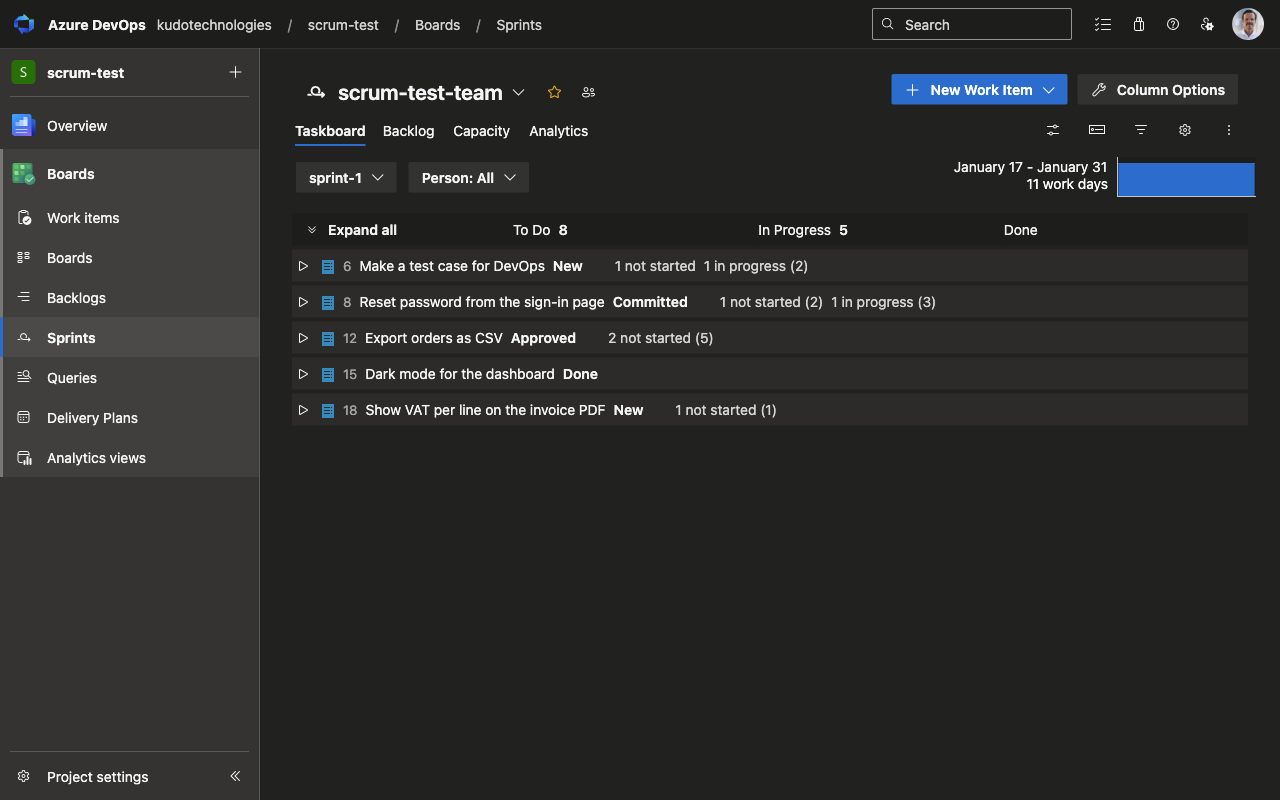
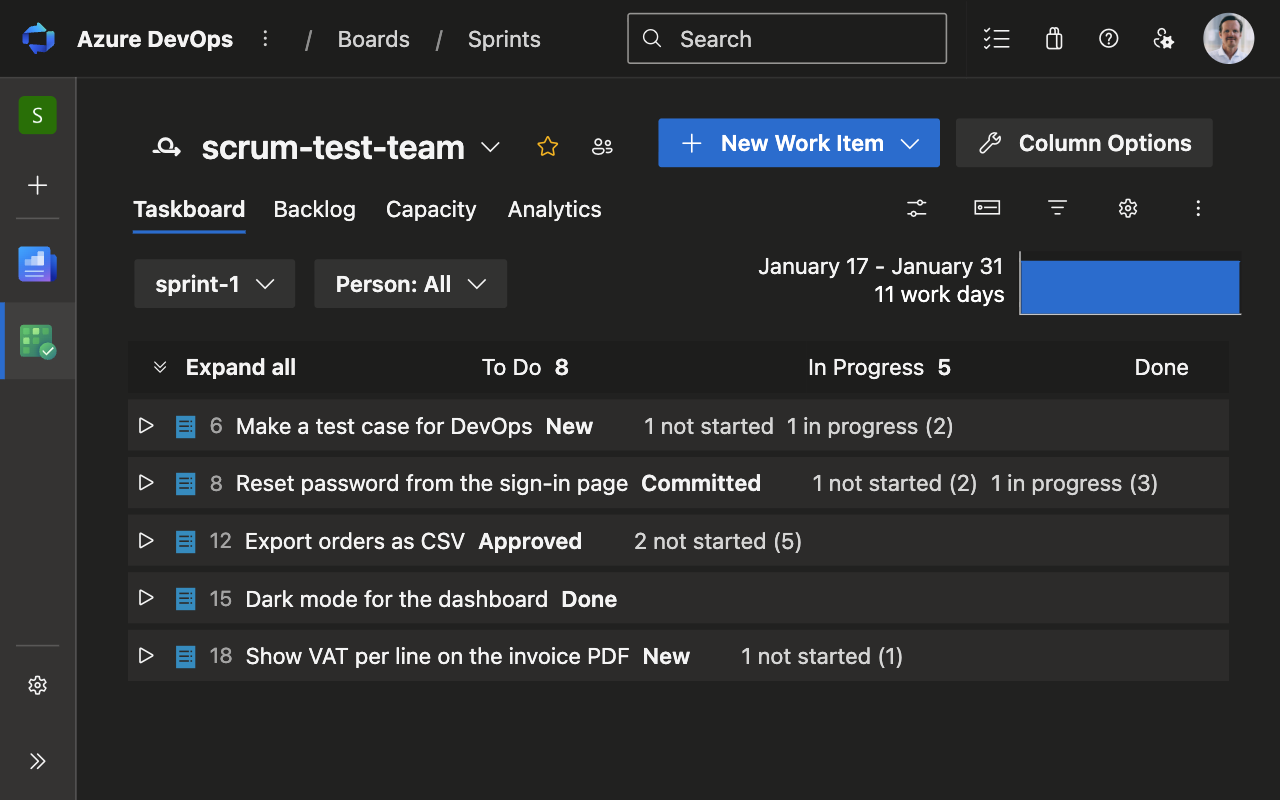
docs(store): promotional tiles, larger screenshots and the store texts
The two promotional tiles are made, from SVG in store/promo with
store/tiles.sh: the white wordmark on the brand color, and the tagline
under it on the marquee.

The screenshots are taken again at 1.6 times the size, in a window of
800 by 500, so the ID and the state can be read where a store shows a
screenshot at half size.

Chrome's test note was 517 characters for a field of 500 and is 497. The
reviewer notes mention the notice, the release steps check the sources
zip against what git tracks, and the privacy policy has the date of its
last change.

diff --git a/store/README.md b/store/README.md
@@ -7,10 +7,12 @@ Everything the three stores ask for, so a release is uploads and form filling. T
 | File | Is |
 |---|---|
 | `icons.sh` | Renders `public/icon/*.png` and `images/logo-300.png` from `assets/icon.svg` and `assets/icon-small.svg` |
+| `tiles.sh` | Renders the two promotional tiles into `images/` from `promo/` and `assets/wordmark-white.svg` |
+| `promo/` | The promotional tiles as SVG: the white wordmark on the brand color, and on the marquee the tagline under it |
 | `listing.en.md` | Name, short description, summary, description and search terms |
 | `images/` | What gets uploaded: the Edge logo, the screenshots and the promotional tiles |
 
-The mark lives in `assets/`: the full icon, the small icon for 16 and 32 pixels, the wordmark in the brand color and in white for the promotional tiles, the name alone for the options page, and the wordmark on its tile for the README, one image for light and dark because GitHub's picture element follows the operating system's theme, not GitHub's. It was drawn in Figma Make on 2026-11-04 as direction 03, "The missing field": a taskboard with a collapsed row and the number sign it forgot, in #1676D2, a blue of its own next to Shop Again?'s navy so the two tell apart in one toolbar. The screenshots are taken in the publisher's test organization with made-up stories, never from a customer's board, at 1280 by 800 in Claude's Chrome with the content script's core injected, which draws exactly what the extension draws: `taskboard-dark.png` and `taskboard-light.png` with the tweak, `taskboard-light-before.png` without it, for a before and after. The promotional tiles are not made yet.
+The mark lives in `assets/`: the full icon, the small icon for 16 and 32 pixels, the wordmark in the brand color and in white for the promotional tiles, the name alone for the options page, and the wordmark on its tile for the README, one image for light and dark because GitHub's picture element follows the operating system's theme, not GitHub's. It was drawn in Figma Make on 2026-11-04 as direction 03, "The missing field": a taskboard with a collapsed row and the number sign it forgot, in #1676D2, a blue of its own next to Shop Again?'s navy so the two tell apart in one toolbar. The screenshots are taken in the publisher's test organization with made-up stories, never from a customer's board, in Claude's Chrome with the extension loaded, in a window of 800 by 500 at a device pixel ratio of 1.6. That gives 1280 by 800 with everything 1.6 times its size, so the ID and the state can still be read where a store shows the screenshot at half size, and at that width Azure DevOps folds its navigation away by itself: `taskboard-dark.png` and `taskboard-light.png` with the tweak, `taskboard-light-before.png` without it, for a before and after. The promotional tiles are `tile-440x280.png` and `marquee-1400x560.png`, PNG without an alpha channel like the screenshots. The tagline on the marquee is the only text in a font, Avenir Next, which macOS carries, so `tiles.sh` runs on a Mac.
 
 ## Images the stores take
 
@@ -18,8 +20,8 @@ The mark lives in `assets/`: the full icon, the small icon for 16 and 32 pixels,
 |---|---|---|---|
 | Store icon or logo | 128 x 128, `public/icon/128.png`, uploaded on the listing | 300 x 300, `images/logo-300.png` | 128 x 128, `public/icon/128.png`, uploaded under Manage Listing, Images, or the listing shows a puzzle piece |
 | Screenshots | 1280 x 800, at least 1, at most 5 | 1280 x 800, at most 6 | Any size, optional |
-| Small promotional tile | 440 x 280, listings without one are ranked after those with one | 440 x 280, optional | Not used |
-| Marquee or large tile | 1400 x 560, optional | 1400 x 560, optional | Not used |
+| Small promotional tile, `images/tile-440x280.png` | 440 x 280, listings without one are ranked after those with one | 440 x 280, optional | Not used |
+| Marquee or large tile, `images/marquee-1400x560.png` | 1400 x 560, optional | 1400 x 560, optional | Not used |
 
 Screenshots are full bleed, no padding, no rounded corners. The icon has an alpha channel, otherwise Chrome frames it.
 
@@ -27,7 +29,7 @@ Screenshots are full bleed, no padding, no rounded corners. The icon has an alph
 
 1. Set the version in `package.json` and move the changes in `CHANGELOG.md` from Unreleased to a release section with today's date.
 2. `npm test && npm run compile && npm run build:firefox && npm run lint:firefox`.
-3. `npm run zip && npm run zip:firefox`, which leaves three files in `.output/`: `tweaks-for-azure-devops-X.Y.Z-chrome.zip` for Chrome and Edge, `tweaks-for-azure-devops-X.Y.Z-firefox.zip` for Firefox, and `tweaks-for-azure-devops-X.Y.Z-sources.zip` for Mozilla's reviewers.
+3. `npm run zip && npm run zip:firefox`, which leaves three files in `.output/`: `tweaks-for-azure-devops-X.Y.Z-chrome.zip` for Chrome and Edge, `tweaks-for-azure-devops-X.Y.Z-firefox.zip` for Firefox, and `tweaks-for-azure-devops-X.Y.Z-sources.zip` for Mozilla's reviewers. The sources zip takes what is in the folder, not what git tracks, so check that nothing else got in: `comm -23 <(unzip -Z1 .output/tweaks-for-azure-devops-X.Y.Z-sources.zip | sort) <(git ls-files | sort)` prints nothing.
 4. Commit, tag `vX.Y.Z`, push, and make the GitHub release from the tag with the changelog section as its notes: `gh release create vX.Y.Z --title X.Y.Z --notes-file <notes>`. Notes only, no packages: the stores are the distribution, and the Firefox zip is unsigned anyway.
 5. Upload to the three stores as below. A release only reaches users when each store has reviewed it, which takes from hours (Firefox, usually) to days (Chrome, up to a week for the first version, Edge up to seven business days).
 
@@ -55,11 +57,11 @@ The same answers go to Chrome and Edge, and Firefox asks for a subset.
 
 **Notes to the reviewers.** Paste as is:
 
-> Tweaks for Azure DevOps adds small features to Azure DevOps web pages. To test you need an Azure DevOps account (free at https://dev.azure.com) with a project that has a sprint and a user story with a task. Open Boards, Sprints, Taskboard and collapse the story row with the arrow in front of it: the extension puts the work item ID in front of the title and the state after it. The state comes from a same-origin GET to the Azure DevOps REST API with the user's own session. A second content script runs in the page's world for one purpose: the older taskboard of Azure DevOps Server keeps a row's work item ID in its script data, and that script copies it to an attribute on the row when the first script asks. The options page, which the toolbar button opens, has a switch per tweak and a form to add an Azure DevOps Server of one's own, which asks for access to that one site. There is no server of ours, no network request to anyone but the Azure DevOps server the page is on, and no remote code. The source builds with Node 24 and npm: `npm ci` and `npm run build:firefox` (or `npm run build` for Chrome), see "Building from source" in the README.
+> Tweaks for Azure DevOps adds small features to Azure DevOps web pages. To test you need an Azure DevOps account (free at https://dev.azure.com) with a project that has a sprint and a user story with a task. Open Boards, Sprints, Taskboard and collapse the story row with the arrow in front of it: the extension puts the work item ID in front of the title and the state after it. The state comes from a same-origin GET to the Azure DevOps REST API with the user's own session. A second content script runs in the page's world for one purpose: the older taskboard of Azure DevOps Server keeps a row's work item ID in its script data, and that script copies it to an attribute on the row when the first script asks. If a row no longer gives its ID, as after a change in Azure DevOps, a notice at the top of the taskboard says so, with a link to the GitHub issue form and a mail link, and nothing is sent unless the user sends it. The options page, which the toolbar button opens, has a switch per tweak and a form to add an Azure DevOps Server of one's own, which asks for access to that one site. There is no server of ours, no network request to anyone but the Azure DevOps server the page is on, and no remote code. The source builds with Node 24 and npm: `npm ci` and `npm run build:firefox` (or `npm run build` for Chrome), see "Building from source" in the README.
 
 Chrome's test instructions field (under Access) takes 500 characters, so Chrome gets this one:
 
-> Adds small features to Azure DevOps pages. To test: sign in at dev.azure.com (free), open a project's Boards, Sprints, Taskboard, and collapse a story row with the arrow in front of it. The extension puts the work item ID in front of the title and the state after it, read with a same-origin GET to the Azure DevOps REST API with the user's own session. Options: a switch per tweak, and a form to add one's own Azure DevOps Server. No server of ours, no remote code. Source: github.com/ronnidc/tweaks-for-azure-devops
+> Adds small features to Azure DevOps. To test: sign in at dev.azure.com (free), open a project's Boards, Sprints, Taskboard, and collapse a story row with the arrow in front of it. The extension puts the work item ID in front of the title and the state after it, read with a same-origin GET to the site's REST API with the user's own session. Options: a switch per tweak and a form to add an Azure DevOps Server. No server of ours, no remote code. Source: github.com/ronnidc/tweaks-for-azure-devops
 
 ## Chrome Web Store
 
@@ -77,7 +79,7 @@ Chrome's test instructions field (under Access) takes 500 characters, so Chrome 
 - Availability: public, all markets.
 - Properties: category Developer tools, website and support contact from above.
 - Privacy: the same answers as Chrome.
-- Store listings: one row, English. It needs the description and the logo (`images/logo-300.png`). The name and the short description come from the manifest.
+- Store listings: one row, English. It needs the description and the logo (`images/logo-300.png`), and takes the screenshots, the two promotional tiles and the search terms too. The name and the short description come from the manifest.
 - Publish asks whether a tester needs credentials or other info. Answer yes, although there are no credentials: no disables the notes field, and the tweak is conditional on an Azure DevOps account and a collapsed row, which is what the notes explain. Paste the reviewer notes above, up to 2,000 characters, and publish.
 
 ## Firefox Add-ons

diff --git a/PRIVACY.md b/PRIVACY.md
@@ -1,6 +1,6 @@
 # Privacy policy for Tweaks for Azure DevOps
 
-Last updated: 2026-11-04
+Last updated: 2026-11-17
 
 Tweaks for Azure DevOps is a browser extension that adds small features to the Azure DevOps web pages you already use. This page says what it does with data. The short version: it talks only to the Azure DevOps server whose page you are on, with the session you are already signed in with, and nothing is sent to anyone else.
 
